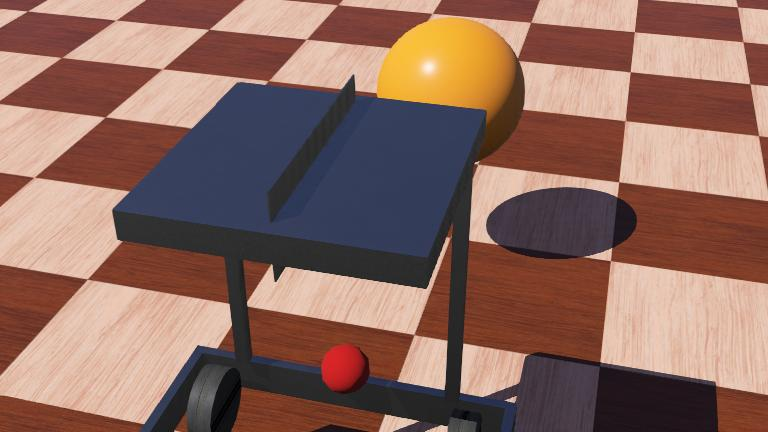
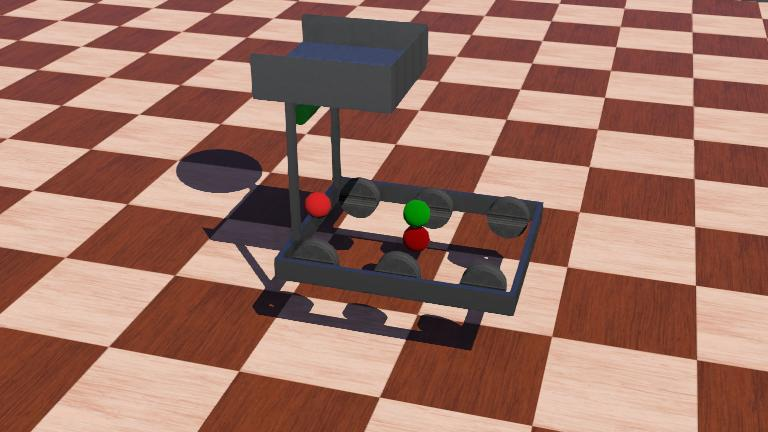
added linear actuator

diff --git a/controllers/joystickControl/joystickControl.java b/controllers/joystickControl/joystickControl.java
@@ -9,6 +9,7 @@ public class joystickControl {
     private static final double MAX_SPEED = 10;
     private static final double GRABBER_ATTITUDE_MAXSPEED = 30;
     private static final double GRABBER_ROLLER_MAXSPEED = 10;
+    private static final double LINEAR_ACTUATOR_MAXSPEED = 1;
 
     public static void main(String[] args) {
         Robot robot = new Robot();
@@ -23,7 +24,8 @@ public class joystickControl {
         "front_left_motor", "front_right_motor", 
         "rear_left_motor", "rear_right_motor", 
         "middle_left_motor", "middle_right_motor",
-        "grabber_attitude", "grabber_roller_motor"};
+        "grabber_attitude", "grabber_roller_motor",
+        "linearActuator1"};
         
         Motor[] motors = new Motor[motorNames.length];
 
@@ -36,9 +38,9 @@ public class joystickControl {
         
         boolean grabber_roller_toggle = false;
         
-        System.out.println("Use arrow keys to drive");
-        System.out.println("Use Space to lift ball grabber");
-        System.out.println("Press End to toggle roller");
+        System.out.println("Use left joystick to drive");
+        System.out.println("Use right joystick to control grabber");
+        System.out.println("Use right bumber to toggle roller");
 
         while (robot.step(TIME_STEP) != -1) {
             // Read joystick axes
@@ -82,6 +84,7 @@ public class joystickControl {
             // Compute left and right motor speeds for skid-steer control
             double leftSpeed = (-leftStickY + leftStickX) * MAX_SPEED;
             double rightSpeed = (-leftStickY - leftStickX) * MAX_SPEED;
+            double linearActuatorSpeed = rightStickY * LINEAR_ACTUATOR_MAXSPEED;
             
             double grabber_roller_speed = 0;
             if (joystickButtonPressed == 5) {
@@ -105,6 +108,8 @@ public class joystickControl {
             motors[5].setTorque(rightSpeed); // middle_right_motor
             motors[6].setTorque(grabber_attitude_speed); // grabber_attitude
             motors[7].setTorque(grabber_roller_speed); // grabber_roller_motor
+            motors[8].setVelocity(linearActuatorSpeed);
+            // System.out.println(linearActuatorSpeed);
             //System.out.println("grabber speed = " + grabber_attitude_speed);
         }
     }
